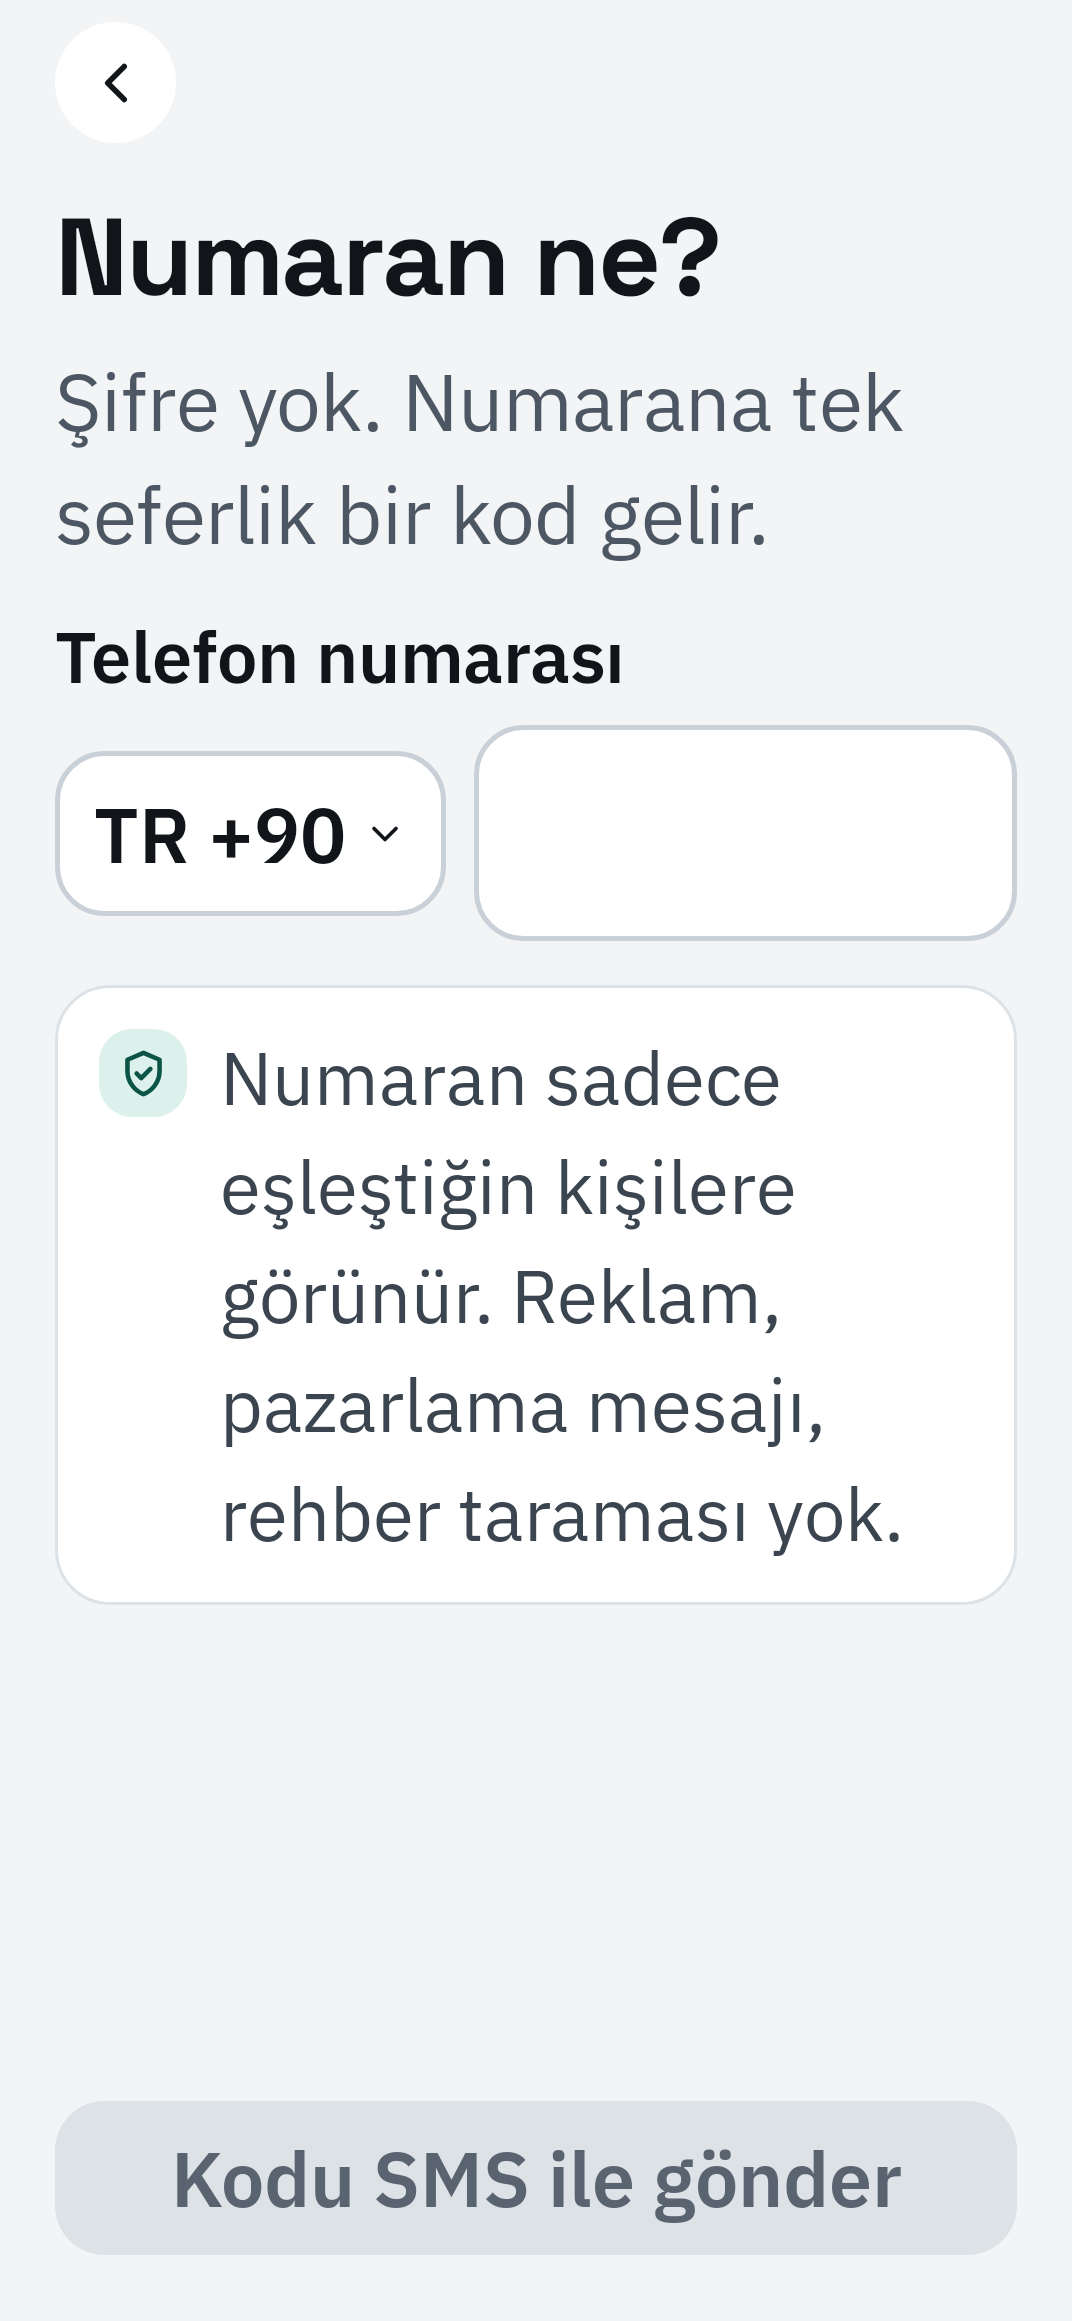
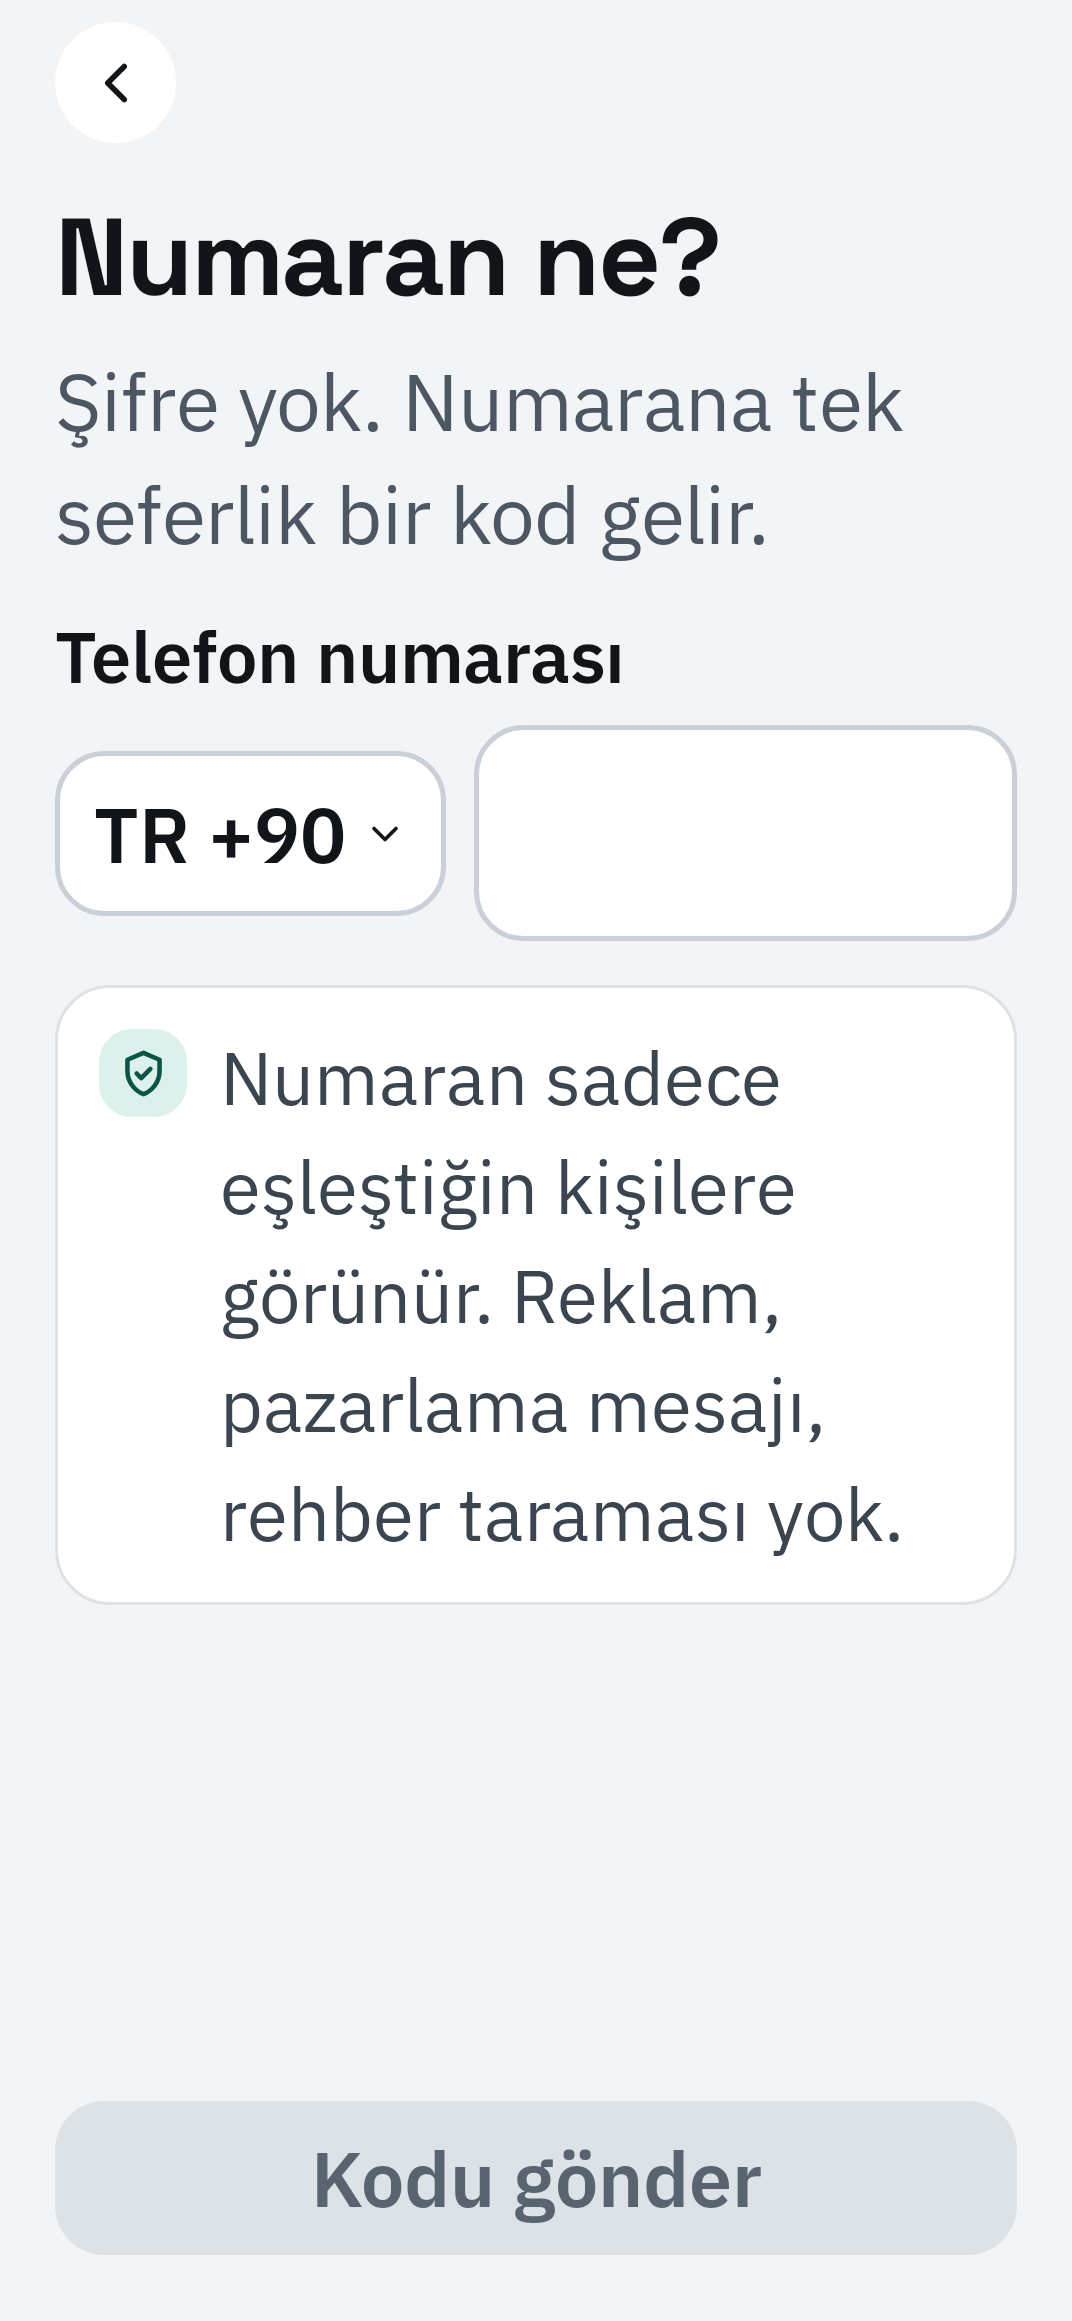
NUD-147 Phone screen 0c: one neutral "Kodu gönder" button, the server picks the channel
Claude-Session: https://claude.ai/code/session_01KnU34g2z66jjycPCmx4VEu

Changed region(s): [[0.1539, 0.8996, 0.8312, 0.9617]]

diff --git a/apps/android/app/src/test/kotlin/app/nuddle/ui/SignInScreensTest.kt b/apps/android/app/src/test/kotlin/app/nuddle/ui/SignInScreensTest.kt
@@ -75,14 +75,14 @@ class SignInScreensTest {
     @Test
     fun `phone send is enabled only for a full mobile number`() {
         content { PhoneScreen(PhoneUiState(national = "53200"), {}, {}, {}) }
-        compose.onNodeWithText("Kodu SMS ile gönder").assertIsNotEnabled()
+        compose.onNodeWithText("Kodu gönder").assertIsNotEnabled()
     }
 
     @Test
     fun `phone send fires for a valid number`() {
         var sent = 0
         content { PhoneScreen(PhoneUiState(national = "5320000002"), {}, onSend = { sent++ }, onBack = {}) }
-        compose.onNodeWithText("Kodu SMS ile gönder").assertIsEnabled().performClick()
+        compose.onNodeWithText("Kodu gönder").assertIsEnabled().performClick()
         assertEquals(1, sent)
     }
 

diff --git a/apps/android/app/src/main/kotlin/app/nuddle/ui/screens/phone/PhoneScreen.kt b/apps/android/app/src/main/kotlin/app/nuddle/ui/screens/phone/PhoneScreen.kt
@@ -74,7 +74,7 @@ fun PhoneScreen(
         modifier = modifier,
         bottom = {
             DurtButton(
-                text = stringResource(R.string.phone_send_sms),
+                text = stringResource(R.string.phone_send_code),
                 onClick = onSend,
                 enabled = state.canSend || state.sending,
                 loading = state.sending,

diff --git a/docs/human-checklist.md b/docs/human-checklist.md
@@ -63,6 +63,8 @@ Things only the human can do: accounts, payments, logins, secrets, production pu
 - [ ] Declare the app as an alarm app (`USE_EXACT_ALARM`, full screen intent) and justify `REQUEST_IGNORE_BATTERY_OPTIMIZATIONS` with the same core function (ringing on time). Upload an early closed test build to learn the policy outcome.
 - [ ] SMS provider account. Configure sender, add credentials to env (`TWILIO_*` and, with the signed prod app, `SMS_RETRIEVER_HASH` in Vercel Production).
 - [ ] WhatsApp sign-in codes (ADR 0029, NUD-147), with the agent in the browser: the Meta Business portfolio of Dokukoza through Twilio's WhatsApp self sign-up (business verification if Meta asks: you upload the documents); the existing Twilio US number as a WhatsApp sender, display name Nuddle; the Turkish and English authentication templates (copy code, 10 minute expiry, security note), then in WhatsApp Manager one-tap/zero-tap with the apps in `docs/ux/platform.md`; submit for approval; the status callback `https://nuddle.app/api/internal/twilio-status`. In Vercel Production: `TWILIO_WHATSAPP_FROM`, `TWILIO_WHATSAPP_TEMPLATE_SID_TR`, `TWILIO_WHATSAPP_TEMPLATE_SID_EN`, `OTP_CODE_KEY` (32 random bytes, base64). Check the WhatsApp price to Turkey in Twilio's pricing and add WhatsApp to the Geo permissions and alerts below.
+  - Done 2026-10-23: Meta business portfolio Dokukoza (`1166427559370350`), WhatsApp Business account `1114277767656995`, sender `+1 314 334 5440` online with display name Nuddle. Templates created in Twilio: `nuddle_otp_tr` `HX6b5ba4e9b95cc89625249239c5478cd9`, `nuddle_otp_en` `HX9fc19f6d6cf538b1bae9e3ec2dca187e`; Meta rejected both ("This WhatsApp business account does not have permission to create message template", subcode 2388185), most likely because authentication templates need a verified business.
+  - Left: Meta business verification of Dokukoza (Business settings, Security Center; your documents), then the agent resubmits the templates, adds one-tap/zero-tap in WhatsApp Manager (`com.dokukoza.nuddle` `FdXmcSJuarV`, `app.nuddle.debug` `p4B2aKduV7N` from this machine's debug key) and sets the four Vercel variables. Until then the server sends every code by SMS.
 - [ ] Privacy notice and terms (KVKK): name the cross-border transfer (Supabase Frankfurt, Vercel, Firebase, Twilio for the sign-in SMS, the LLM provider via OpenRouter: written texts, and for poke planning past task titles, outcomes and connection names, ADR 0017), photo retention (deleted when the task closes), account deletion. The privacy notice and the deletion page are drafted (NUD-85, `nuddle.app/privacy` and `/delete-account`); read both in Turkish before merging, and confirm open-questions #50 to #52. Terms are still to write.
 - [x] `privacy@nuddle.app` receives mail: Cloudflare Email Routing forwards it to your Gmail (enabled 2026-10-16; MX, SPF and DKIM records added by Cloudflare, one rule for this address, catch-all off). Both legal pages name it. A deletion request by mail: confirm the number is theirs (call or SMS it), then `mise run account:delete -- +905xxxxxxxxx --prod` (dry run), the same with `--yes`, and answer within 30 days.
 - [x] Play review account (ADR 0022): the number is `905000000001` (`+90 500 000 00 01`, unallocated); write `905000000001=<6 random digits>` to `~/.nuddle/prod/PLAY_REVIEW_OTP` (`chmod 600`), run `mise exec -- supabase/cloud/configure.sh auth` (it shows `"sms_test_numbers": 1`), then enter the number and code in Play Console, App access. To revoke, empty the file and run it again. Applied 2026-10-16, valid until 2027-01-14: run `configure.sh auth` again before then to renew.

diff --git a/docs/ux/screens.md b/docs/ux/screens.md
@@ -113,9 +113,8 @@ Same as 0a with an inviter chip on top.
 **Copy:** Sibel seni dürt'e davet etti | Önce numaranla giriş yap, sonra Sibel'in davetine bakarız. | Telefonla başla
 
 ### 0c Phone · `Phone.png`
-Country code button (TR +90) + number input. Privacy note card. The design makes WhatsApp the primary channel; until a WhatsApp template exists the code goes by SMS only (ADR 0014, decided in NUD-9), so the screen has one button.
-**Copy:** Numaran ne? | Şifre yok. Numarana tek seferlik bir kod gelir. | Telefon numarası | Numaran sadece eşleştiğin kişilere görünür. Reklam, pazarlama mesajı, rehber taraması yok. | Kodu SMS ile gönder
-WhatsApp copy for later: Kodu WhatsApp'tan gönder | SMS ile gönder
+Country code button (TR +90) + number input. Privacy note card. The server picks the channel (WhatsApp first, SMS for a number without WhatsApp, ADR 0029), so the screen has one neutral button instead of the design's two; the choice of SMS is on 0d ("SMS ile gönder").
+**Copy:** Numaran ne? | Şifre yok. Numarana tek seferlik bir kod gelir. | Telefon numarası | Numaran sadece eşleştiğin kişilere görünür. Reklam, pazarlama mesajı, rehber taraması yok. | Kodu gönder
 Over a daily SMS cap (`otp_limit`, ADR 0024, open-questions #54) an InlineAlert under the note says when to try again, with the local time of `retryAt`: Çok fazla kod istendi | Şu an yeni kod gönderemiyoruz. Saat 21:15 olunca tekrar dene.
 
 ### 0d Code · `Otp.png`
